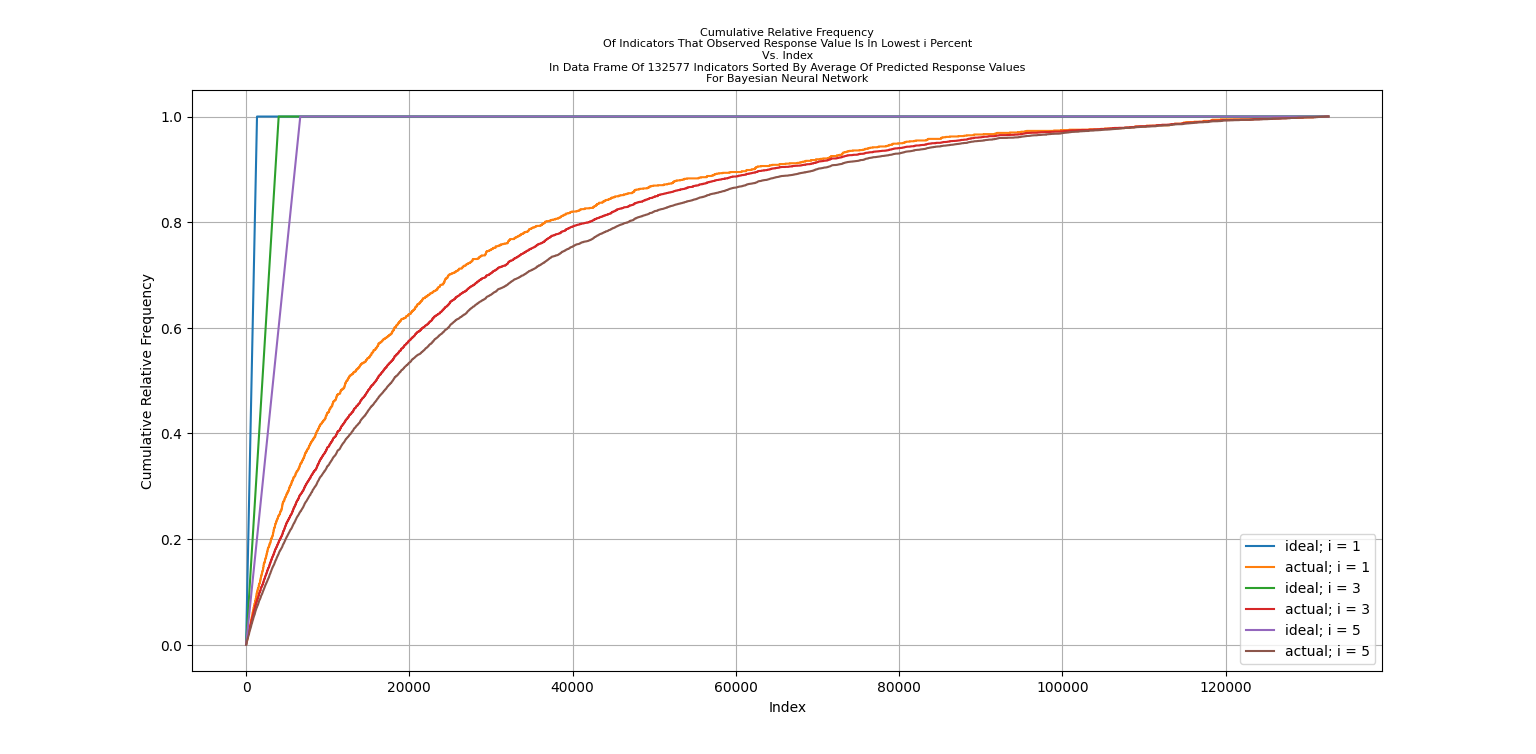
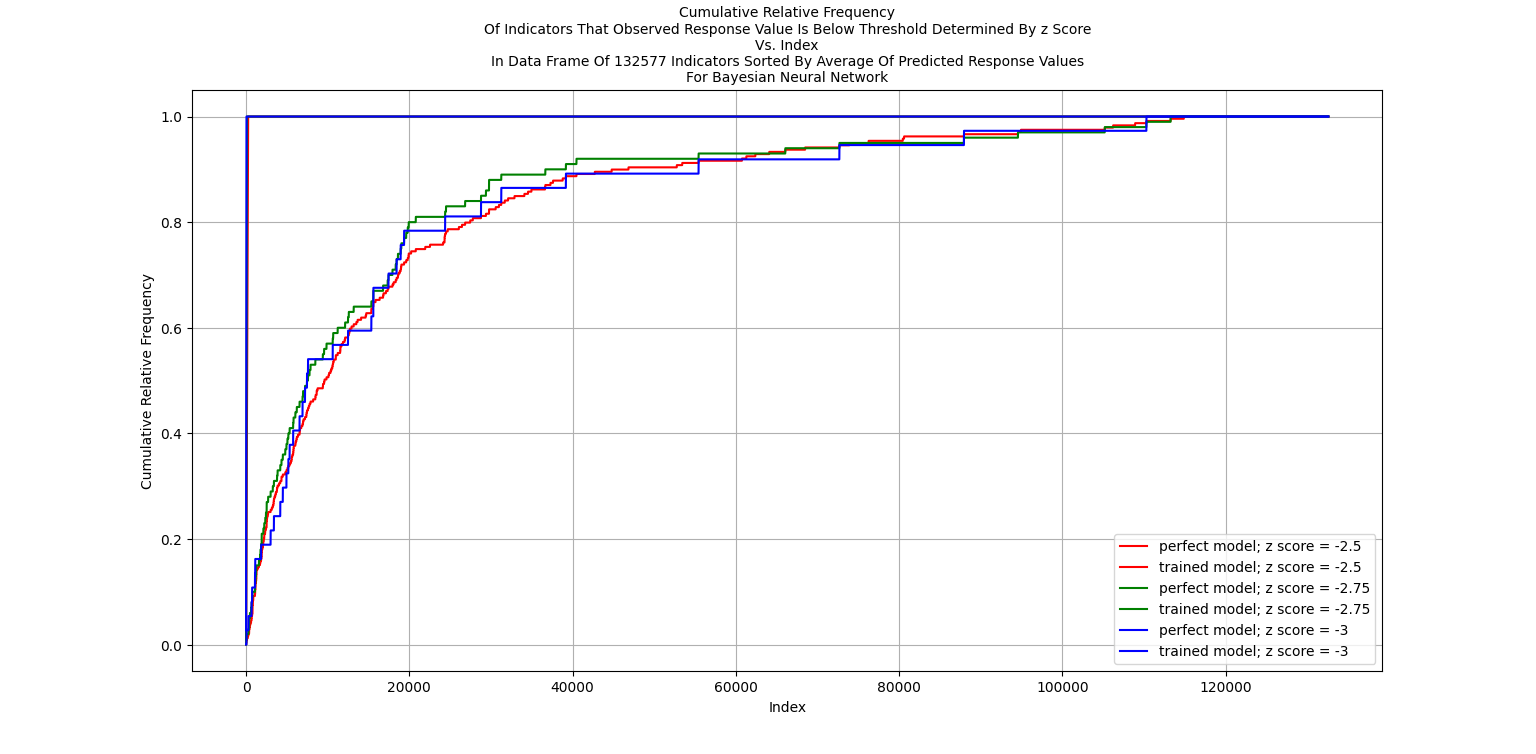
Optimized Gains Curves

Changed region(s): [[0.1562, 0.1525, 0.875, 0.8541], [0.3125, 0.0, 0.7188, 0.122], [0.7188, 0.7016, 0.9062, 0.8846]]

diff --git a/Plot_Gains_Curve.py b/Plot_Gains_Curve.py
@@ -9,29 +9,43 @@ from matplotlib import pyplot as plt
 import numpy as np
 import pandas as pd
 
-
 def main(name_of_model, number_of_training_or_testing_observations, path_to_data_frame):
-    ax = None
-    for i in [2.5, 2.75, 3]:
-        df = pd.read_csv(path_to_data_frame)[['observed_response_value', 'average_of_predicted_response_values']]
-        data_frame_of_observed_response_values = df['observed_response_value']
-        the_mean = np.mean(data_frame_of_observed_response_values)
-        standard_deviation = np.std(data_frame_of_observed_response_values)
-        i_standard_deviations_below_mean = the_mean - i * standard_deviation
-        #ith_percentile_of_observed_response_values = np.percentile(data_frame_of_observed_response_values, i)
-        df['indicator_that_observed_response_value_is_in_lowest_i_percent'] = [1 if observed_response_value < i_standard_deviations_below_mean else 0 for observed_response_value in data_frame_of_observed_response_values]
+    dictionary_of_numbers_of_standard_deviations_below_mean_and_colors = {
+        -2.5: 'red',
+        -2.75: 'green',
+        -3: 'blue'
+    }
+    data_frame_of_observed_response_values_and_average_of_predicted_response_values = pd.read_csv(path_to_data_frame)[['observed_response_value', 'average_of_predicted_response_values']]
+    series_of_observed_response_values = data_frame_of_observed_response_values_and_average_of_predicted_response_values['observed_response_value']
+    for pair in dictionary_of_numbers_of_standard_deviations_below_mean_and_colors.items():
+        df = data_frame_of_observed_response_values_and_average_of_predicted_response_values[['observed_response_value']].copy()
+        z_score = pair[0]
+        threshold = np.mean(series_of_observed_response_values) + z_score * np.std(series_of_observed_response_values)
+        df['indicator_that_observed_response_value_is_below_threshold'] = [1 if observed_response_value < threshold else 0 for observed_response_value in series_of_observed_response_values]
         df = df.sort_values(by = 'observed_response_value')
-        df['index'] = np.arange(0, len(df.index))
-        df['ideal_cumulative_frequency_of_indicators_that_observed_response_value_is_in_lowest_i_percent'] = np.cumsum(df['indicator_that_observed_response_value_is_in_lowest_i_percent'])
-        df['ideal_cumulative_relative_frequency_of_indicators_that_observed_response_value_is_in_lowest_i_percent'] = df['ideal_cumulative_frequency_of_indicators_that_observed_response_value_is_in_lowest_i_percent'] / max(df['ideal_cumulative_frequency_of_indicators_that_observed_response_value_is_in_lowest_i_percent'])
-        ax = df.plot(ax = ax, x = 'index', y = 'ideal_cumulative_relative_frequency_of_indicators_that_observed_response_value_is_in_lowest_i_percent', label = f'ideal; i = {i}')
+        df.reset_index(drop = True, inplace = True)
+        df.drop('observed_response_value', axis = 1, inplace = True)
+        df['cumulative_frequency_of_indicators_that_observed_response_value_is_below_threshold_for_perfect_model'] = np.cumsum(df['indicator_that_observed_response_value_is_below_threshold'])
+        df.drop('indicator_that_observed_response_value_is_below_threshold', axis = 1, inplace = True)
+        df['cumulative_relative_frequency_of_indicators_that_observed_response_value_is_below_threshold_for_perfect_model'] = df['cumulative_frequency_of_indicators_that_observed_response_value_is_below_threshold_for_perfect_model'] / max(df['cumulative_frequency_of_indicators_that_observed_response_value_is_below_threshold_for_perfect_model'])
+        df.drop('cumulative_frequency_of_indicators_that_observed_response_value_is_below_threshold_for_perfect_model', axis = 1, inplace = True)
+        print(df.head(n = 3))
+        plt.plot(df.index, df['cumulative_relative_frequency_of_indicators_that_observed_response_value_is_below_threshold_for_perfect_model'], label = f'perfect model; z score = {z_score}', color = pair[1])
+        df = data_frame_of_observed_response_values_and_average_of_predicted_response_values.copy()
+        df['indicator_that_observed_response_value_is_below_threshold'] = [1 if observed_response_value < threshold else 0 for observed_response_value in series_of_observed_response_values]
+        df.drop('observed_response_value', axis = 1, inplace = True)
         df.sort_values(by = 'average_of_predicted_response_values', inplace = True)
-        df['index'] = np.arange(0, len(df.index))
-        df['actual_cumulative_frequency_of_indicators_that_observed_response_value_is_in_lowest_i_percent'] = np.cumsum(df['indicator_that_observed_response_value_is_in_lowest_i_percent'])
-        df['actual_cumulative_relative_frequency_of_indicators_that_observed_response_value_is_in_lowest_i_percent'] = df['actual_cumulative_frequency_of_indicators_that_observed_response_value_is_in_lowest_i_percent'] / max(df['actual_cumulative_frequency_of_indicators_that_observed_response_value_is_in_lowest_i_percent'])
-        ax = df.plot(ax = ax, x = 'index', y = 'actual_cumulative_relative_frequency_of_indicators_that_observed_response_value_is_in_lowest_i_percent', label = f'actual; i = {i}')
+        df.reset_index(drop = True, inplace = True)
+        df.drop('average_of_predicted_response_values', axis = 1, inplace = True)
+        df['cumulative_frequency_of_indicators_that_observed_response_value_is_below_threshold_for_trained_model'] = np.cumsum(df['indicator_that_observed_response_value_is_below_threshold'])
+        df.drop('indicator_that_observed_response_value_is_below_threshold', axis = 1, inplace = True)
+        df['cumulative_relative_frequency_of_indicators_that_observed_response_value_is_below_threshold_for_trained_model'] = df['cumulative_frequency_of_indicators_that_observed_response_value_is_below_threshold_for_trained_model'] / max(df['cumulative_frequency_of_indicators_that_observed_response_value_is_below_threshold_for_trained_model'])
+        df.drop('cumulative_frequency_of_indicators_that_observed_response_value_is_below_threshold_for_trained_model', axis = 1, inplace = True)
+        print(df.head(n = 3))
+        plt.plot(df.index, df['cumulative_relative_frequency_of_indicators_that_observed_response_value_is_below_threshold_for_trained_model'], label = f'trained model; z score = {z_score}', color = pair[1])
     plt.grid()
-    plt.title(f'Cumulative Relative Frequency\nOf Indicators That Observed Response Value Is In Lowest i Percent\nVs. Index\nIn Data Frame Of {number_of_training_or_testing_observations} Indicators Sorted By Average Of Predicted Response Values\nFor {name_of_model}', fontsize = 8)
+    plt.legend()
+    plt.title(f'Cumulative Relative Frequency\nOf Indicators That Observed Response Value Is Below Threshold Determined By z Score\nVs. Index\nIn Data Frame Of {number_of_training_or_testing_observations} Indicators Sorted By Average Of Predicted Response Values\nFor {name_of_model}', fontsize = 10)
     plt.xlabel('Index')
     plt.ylabel('Cumulative Relative Frequency')
     plt.show()
